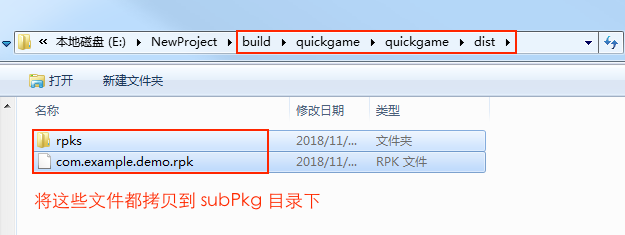
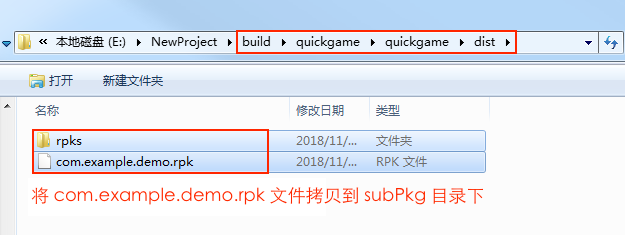
修正发布到 oppo 小游戏平台

Changed region(s): [[0.0304, 0.7745, 0.7904, 0.8936]]

diff --git a/zh/publish/publish-oppo-instant-games.md b/zh/publish/publish-oppo-instant-games.md
@@ -75,7 +75,7 @@
 
 - **构建发布程序包**
 
-  **构建发布程序包** 是选填项。勾选该项的目的是构建出可以直接发布的 rpk 包。但有三个前提是需要填写 **本地 npm 安装路径**、**本地 quickgame-toolkit 路径** 以及添加 release 签名。<br>
+  **构建发布程序包** 是选填项。勾选该项的目的是构建出可以直接发布的 rpk 包。但有三个前提是需要填写 **本地 npm 安装路径**、**本地 quickgame-toolkit 路径** 以及 **添加 release 签名**。<br>
   如果不勾选 **构建发布程序包**，则构建出的是用于测试的 rpk 包。
 
     - 添加 release 签名：
@@ -110,11 +110,11 @@
 分包加载，即把游戏内容按一定规则拆分成几个包，在首次启动的时候只下载必要的包，这个必要的包称为 **主包**，开发者可以在主包内触发下载其他子包，这样可以有效降低首次启动的消耗时间。若要使用该功能需要在 Creator 中设置 [分包配置](../scripting/subpackage.md)，设置完成后构建时就会自动分包。
 
 构建完成后，分包的目录在 /build/quickgame/quickgame/dist 目录下。<br>
-这时需要在 Android 设备的 **sdcard** 目录下，新建一个 **subPkg** 目录，然后把 /build/quickgame/quickgame/dist 目录下所有的文件和文件夹都拷贝到 subPkg 目录中。
+这时需要在 Android 设备的 **sdcard** 目录下，新建一个 **subPkg** 目录，然后把 /build/quickgame/quickgame/dist 目录下的 **.rpk** 文件拷贝到 subPkg 目录中。
 
 ![](./publish-oppo-instant-games/subpackage.jpg)
   
-然后切换到 **快应用** 的 **分包加载** 栏目，点击右上方的刷新即可看到分包的游戏名称，点击 **秒玩** 即可跟正常打包的 rpk 一样使用。
+然后切换到 **快应用** 的 **分包加载** 栏目，点击右上方的刷新即可看到分包的游戏名称，点击 **秒开** 即可跟正常打包的 rpk 一样使用。
 
 ![](./publish-oppo-instant-games/run_subpackage.jpg)
 
